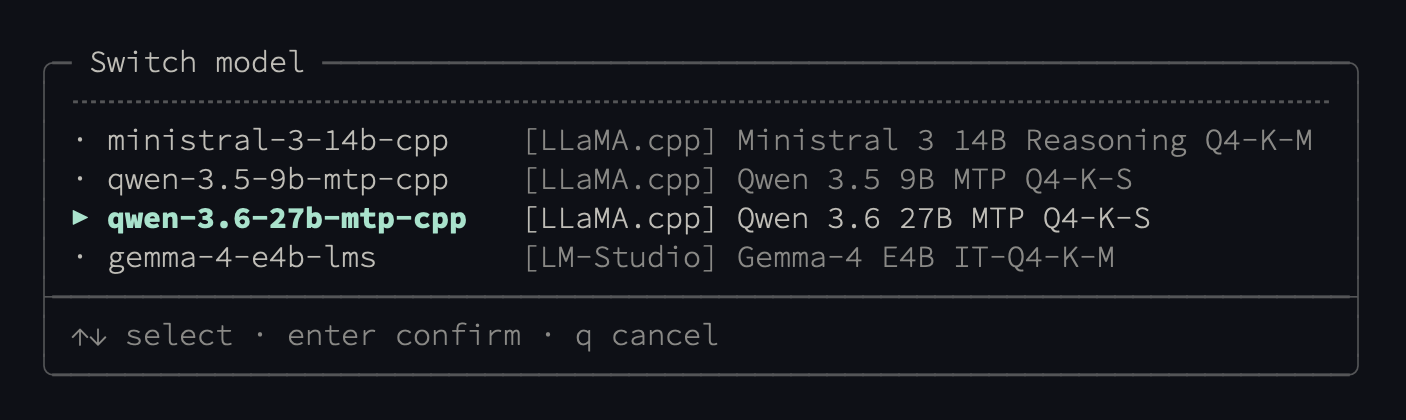
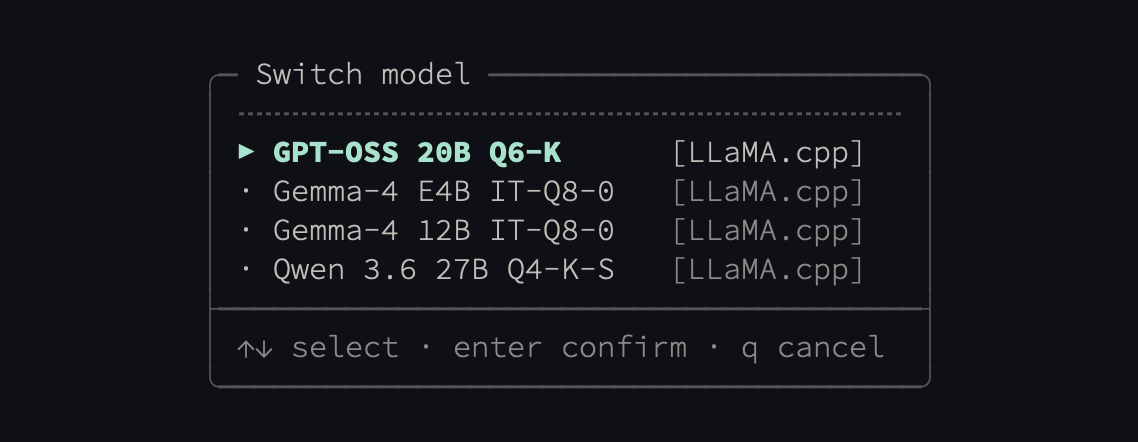
updated ReadMe and screenshots for ReadMe

diff --git a/README.md b/README.md
@@ -11,7 +11,7 @@ See [CONTEXT.md](CONTEXT.md) for the project's domain language and [docs/adr/](d
 </p>
 
 <p align="center">
-  <img src="media/screen_2.png" alt="llama-launcher interactive menu" width="825">
+  <img src="media/screen_2.png" alt="llama-launcher interactive menu" width="550">
 </p>
 
 ## Install